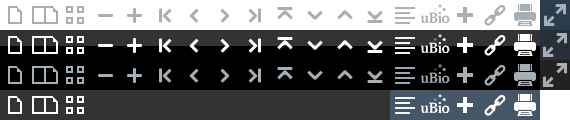
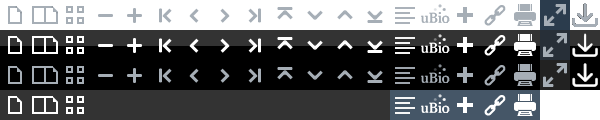
Added a page download feature to the book viewer

Changed region(s): [[0.0, 0.275, 1.0, 1.0], [0.0, 0.0, 1.0, 0.25], [0.0, 0.8, 0.1491, 0.95]]

diff --git a/BHLUSWeb2/css/BookReader.css b/BHLUSWeb2/css/BookReader.css
@@ -388,6 +388,11 @@
 .BRicon.page_print:active, .BRicon.page_print.active:active { background-position:-510px -60px; }
 .BRicon.page_print.active { background-position:-510px -90px; }
 
+.BRicon.page_download { background-position:-570px 0; }
+.BRicon.page_download:hover, .BRicon.page_download.active:hover { background-position:-570px -30px; }
+.BRicon.page_download:active, .BRicon.page_download.active:active { background-position:-570px -60px; }
+.BRicon.page_download.active { background-position:-570px -90px; }
+
 .BRicon.pop_ocr { background-position:-540px 0; }
 .BRicon.pop_ocr:hover { background-position:-540px -30px; }
 .BRicon.pop_ocr:active { background-position:-540px -60px; }

diff --git a/BHLUSWeb2/Controllers/PageController.cs b/BHLUSWeb2/Controllers/PageController.cs
@@ -116,8 +116,18 @@ namespace MOBOT.BHL.Web2.Controllers
                 // Make sure we found an active page
                 if (page != null)
                 {
-                    // Use the IA URL to get a JPG from the JP2
-                    imageUrl = page.AltExternalURL.Replace(".jp2", ".jpg");
+                    imageUrl = page.AltExternalURL;
+                    if (imageUrl.Contains("archive.org"))
+                    {
+                        // Use the IA URL to get a JPG from the JP2
+                        imageUrl = imageUrl.Replace(".jp2", ".jpg");
+                    }
+                    else
+                    {
+                        // Return the JPG version of this page from AWS S3
+                        imageUrl = imageUrl.Replace("/web/", "/jpg/");
+                        imageUrl = imageUrl.Replace("_full.webp", ".jpg");
+                    }
                 }
 
                 if (imageUrl == String.Empty) imageUrl = ConfigurationManager.AppSettings["ImageNotFoundPath"];
